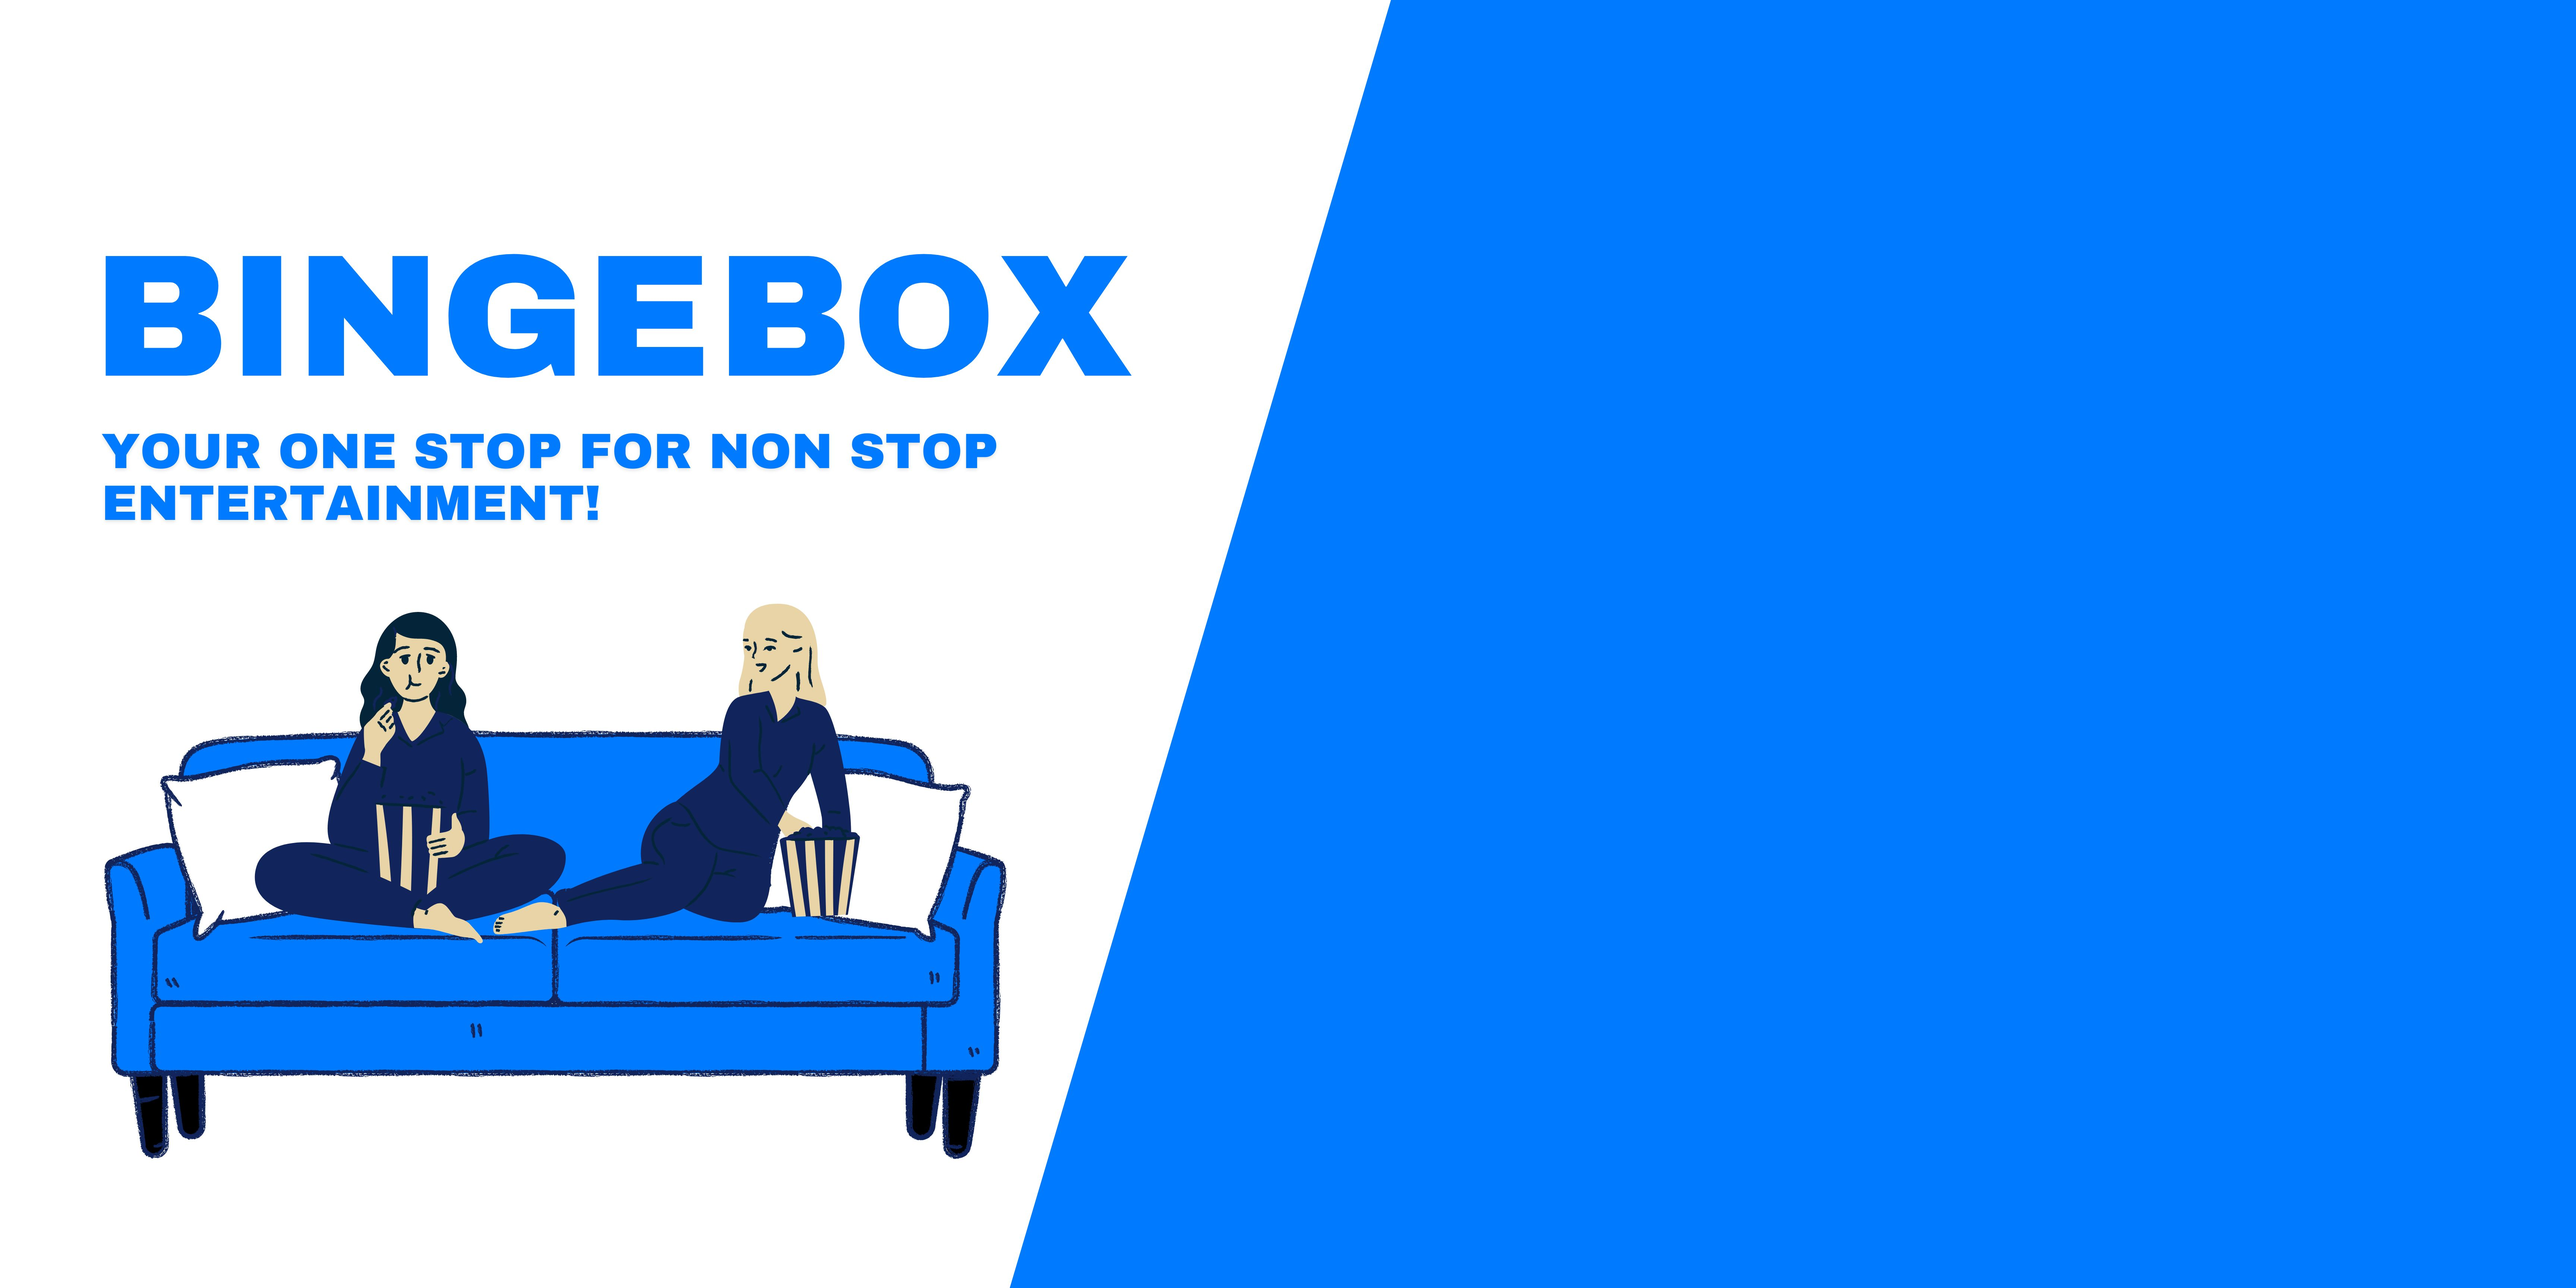
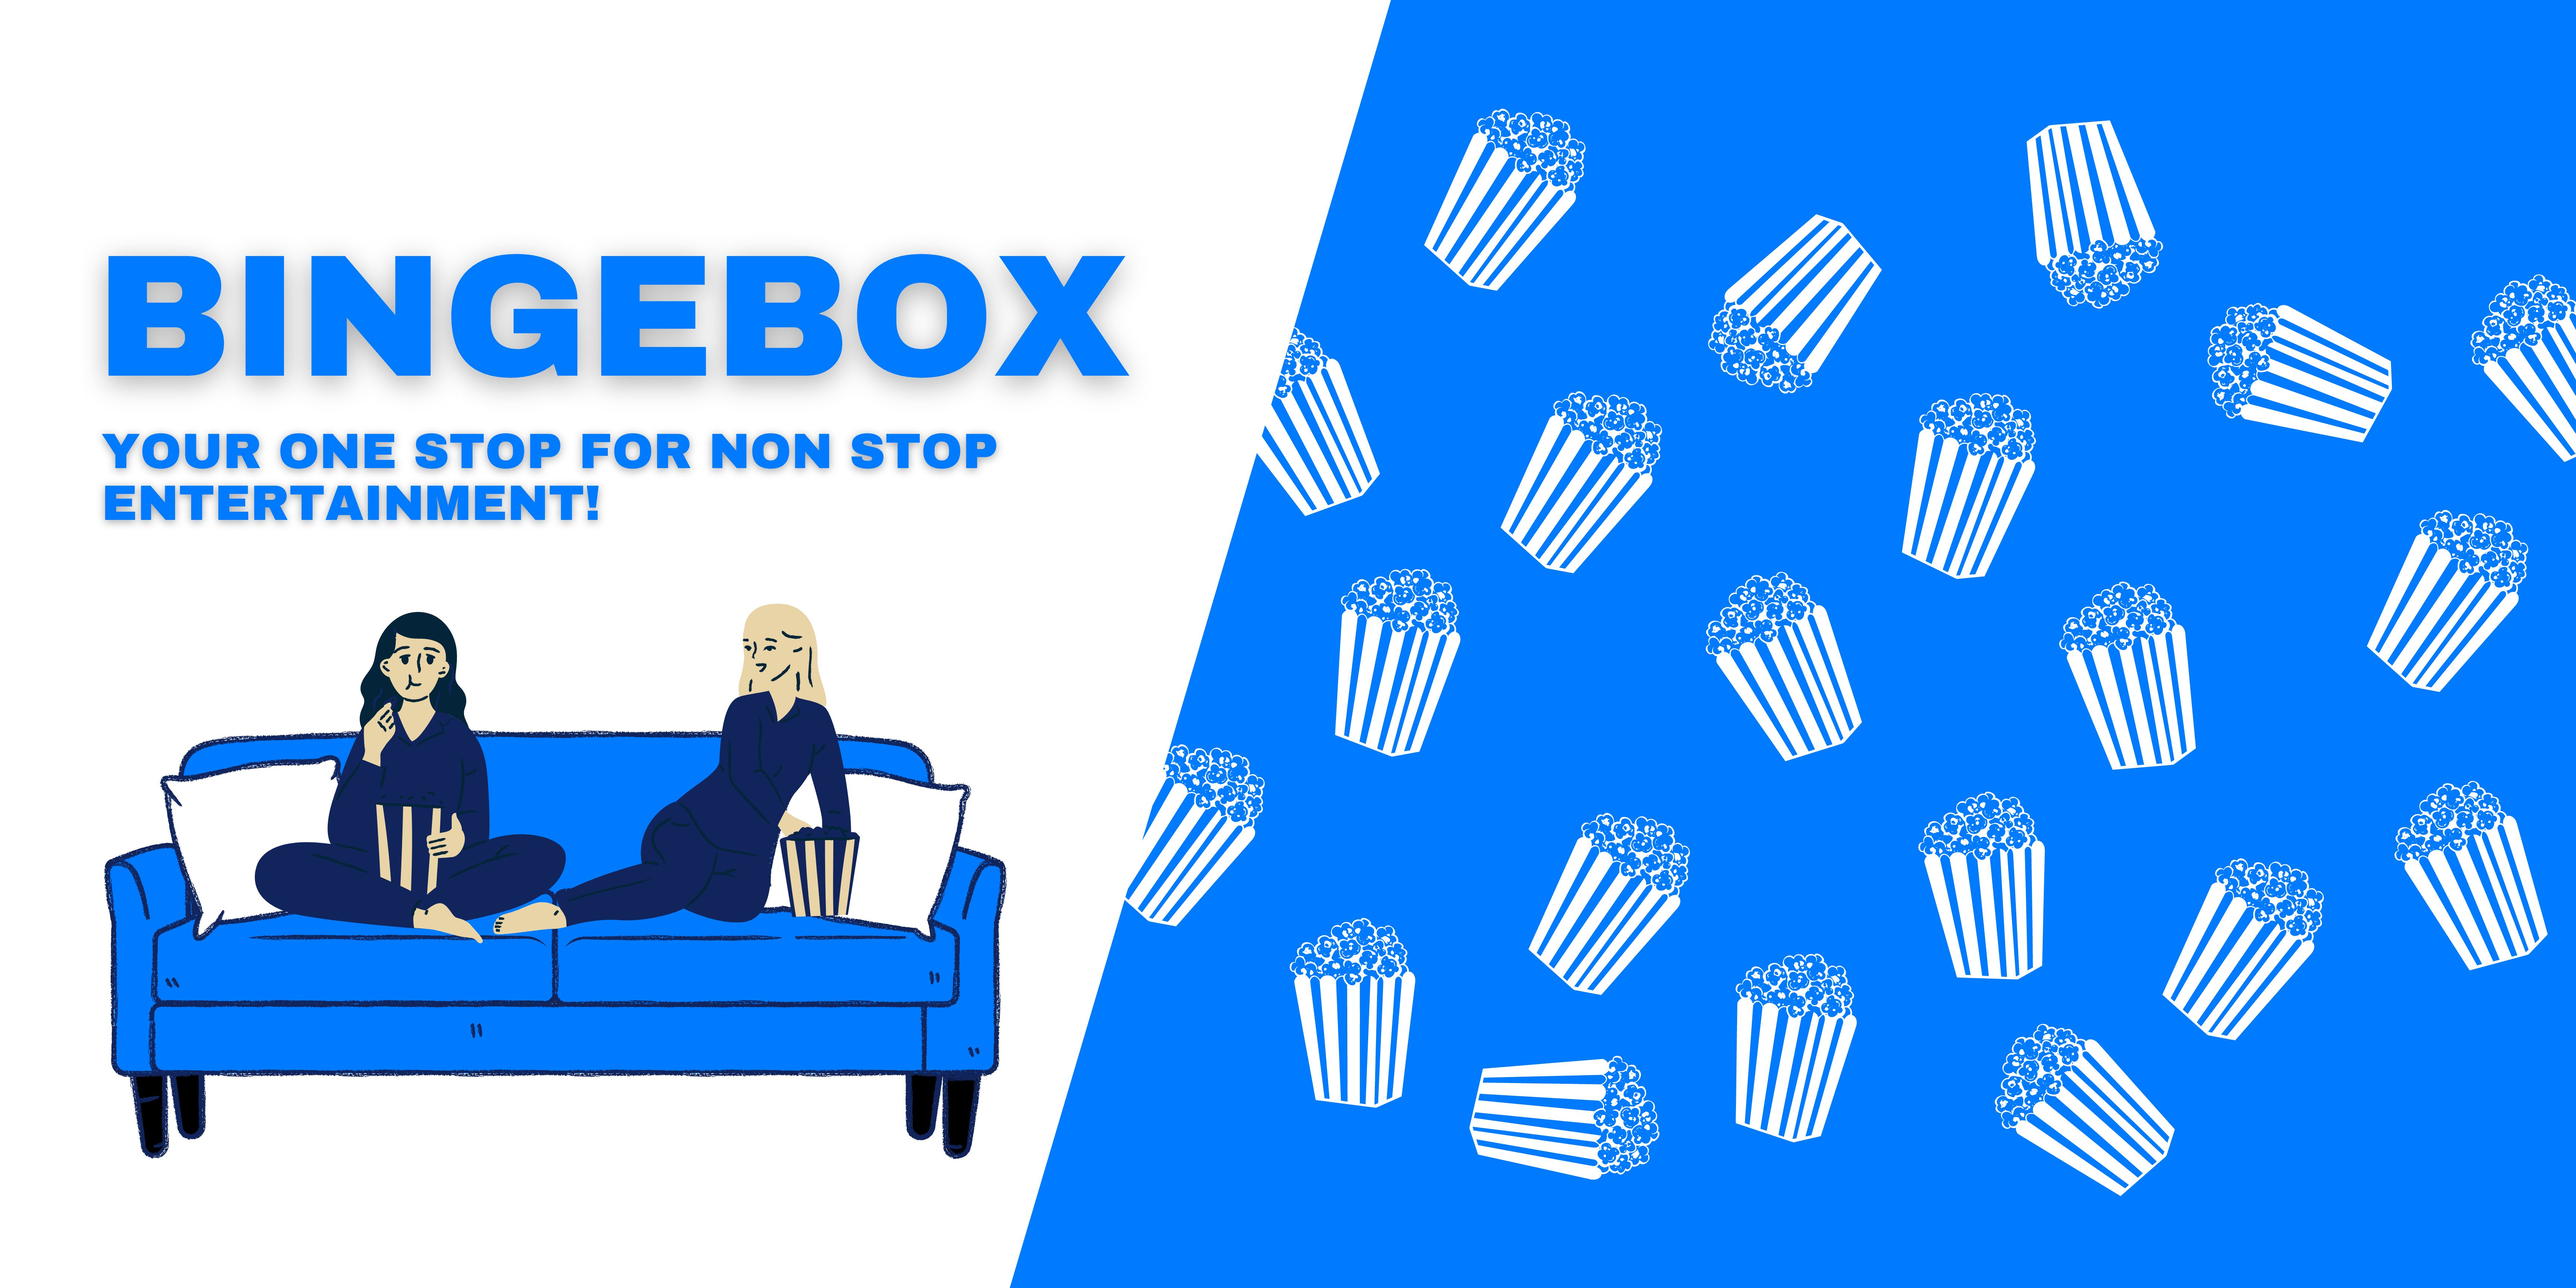
ui changes

diff --git a/src/App.js b/src/App.js
@@ -7,17 +7,17 @@ import Hpage from './Hpage';
 import AboutMe from './AboutMe';
 import ForgotPassword from './ForgotPassword'; 
 import Footer from './Footer';
-import BingeBox from './BingeBox.jpg'; 
+import BingeBox from './images/BingeBox.jpg'; 
 import FeedbackPage from './FeedbackPage';
 import PrivacyPolicy from './PrivacyPolicy';
 import TermsOfService from './TermsOfService';
-import Logout from './Logout'; // Import the Logout component
+import Logout from './Logout'; 
 
 const NavBar = () => {
     const location = useLocation();
 
-    // Conditionally hide links on LogIn and SignUp pages
-    const hideLinks = location.pathname === '/' || location.pathname === '/signup' || location.pathname === '/forgot-password';
+    
+    const hideLinks = location.pathname === '/' || location.pathname === '/signup' || location.pathname === '/forgot-password' || location.pathname === '/terms-of-service' || location.pathname === '/privacy-policy';
 
     return (
         <nav>
@@ -28,7 +28,7 @@ const NavBar = () => {
                         <li><Link to="/home">Shows</Link></li>
                         <li><Link to="/about">About Us</Link></li>
                         <li><Link to="/feedback">Feedback</Link></li>
-                        <li><Link to="/logout">Logout</Link></li> {/* Add Logout link */}
+                        <li><Link to="/logout">Logout</Link></li> 
                     </ul>
                 )}
             </div>
@@ -49,7 +49,7 @@ const AppContent = () => {
                 <Route path="/forgot-password" element={<ForgotPassword />} /> 
                 <Route path="/privacy-policy" element={<PrivacyPolicy />} />
                 <Route path="/terms-of-service" element={<TermsOfService />} />
-                <Route path="/logout" element={<Logout />} /> {/* Add Logout route */}
+                <Route path="/logout" element={<Logout />} /> 
             </Routes>
             <Footer />
         </div>

diff --git a/backend/routes/auth.js b/backend/routes/auth.js
@@ -2,18 +2,17 @@ const express = require('express');
 const router = express.Router();
 const User = require('../models/User');
 
-// Register route
+
 router.post('/register', async (req, res) => {
     try {
         const { username, email, password, ContactNumber } = req.body;
 
-        // Check if the user already exists
         const existingUser = await User.findOne({ email });
         if (existingUser) {
             return res.status(400).json({ message: 'User already exists' });
         }
 
-        // Create a new user
+        
         const newUser = new User({
             username,
             email,
@@ -21,7 +20,7 @@ router.post('/register', async (req, res) => {
             ContactNumber,
         });
 
-        // Save the user to the database
+
         await newUser.save();
 
         res.status(201).json({ message: 'User registered successfully' });
@@ -39,12 +38,12 @@ router.post('/login', async (req, res) => {
             return res.status(400).json({ message: 'User not found' });
         }
 
-        // Check if the password matches (direct comparison since no hashing is done)
+
         if (user.password !== password) {
             return res.status(400).json({ message: 'Invalid credentials' });
         }
 
-        // Successful login
+
         res.status(200).json({ message: 'Login successful', user });
     } catch (error) {
         res.status(500).json({ message: 'Server error' });

diff --git a/src/LogIn.js b/src/LogIn.js
@@ -5,20 +5,20 @@ import { useNavigate } from 'react-router-dom';
 function LogIn() {
     const [username, setUsername] = useState('');
     const [password, setPassword] = useState('');
-    const navigate = useNavigate(); // Initialize useNavigate for navigation
+    const navigate = useNavigate(); 
 
     const handleSubmit = async (e) => {
-        e.preventDefault(); // Prevent default form submission
+        e.preventDefault(); 
         try {
             const response = await axios.post('http://localhost:5000/api/auth/login', {
                 username,
                 password,
             });
             
-            alert(response.data.message); // Alert the user with a success message
+            alert(response.data.message); 
             
-            // Redirect to the home page (e.g., '/')
-            navigate('/home'); // Change this if your home route is different
+            
+            navigate('/home'); 
         } catch (error) {
             alert(error.response?.data.message || 'Login failed');
         }

diff --git a/src/App.css b/src/App.css
@@ -261,7 +261,6 @@ h2 {
   border-radius: 10px;
   width: 200px;
   margin: 20px;
-  padding: 10px;
   text-align: center;
   box-shadow: 0 4px 8px rgba(0, 0, 0, 0.2);
 }
@@ -414,13 +413,16 @@ p {
   border-radius: 8px;
   overflow: hidden;
   text-align: center;
+  padding: 10px;
+  margin: 10px;
   background-color: #f9f9f9;
+  transition: transform 0.3s ease, box-shadow 0.3s ease, background-color 0.3s ease;
 }
 
 .event-card:hover {
-  box-shadow: 0 12px 24px rgba(0, 0, 0, 0.3); 
-  transform: translateY(-8px) scale(1.03); 
-  background-color: #f7f7f7; 
+  box-shadow: 0 16px 32px rgba(0, 0, 0, 0.35);
+  transform: translateY(-10px) scale(1.05);
+  background-color: #eaeaea;
 }
 
 
@@ -662,3 +664,4 @@ p {
   box-shadow: 0px 4px 10px rgba(0, 0, 0, 0.5); 
   border-radius: 10px; 
 }
+

diff --git a/backend/app.js b/backend/app.js
@@ -6,19 +6,19 @@ require('dotenv').config();
 
 const app = express();
 
-// Middleware
+
 app.use(cors());
 app.use(express.json());
 
-// Connect to MongoDB
+
 mongoose.connect(process.env.MONGO_URL)
 .then(() => console.log('Connected to MongoDB'))
 .catch((err) => console.error('MongoDB connection error:', err));
 
-// Routes
+
 app.use('/api/auth', authRoutes);
 
-// Start server
+
 const PORT = process.env.PORT || 5000;
 app.listen(PORT, () => {
     console.log(`Server running on port ${PORT}`);

diff --git a/src/Logout.js b/src/Logout.js
@@ -5,10 +5,8 @@ const Logout = () => {
     const navigate = useNavigate();
 
     useEffect(() => {
-        // Perform logout logic here (e.g., clear user data, tokens, etc.)
-        localStorage.removeItem('user'); // Example: removing user data from local storage
+        localStorage.removeItem('user'); 
 
-        // Redirect to login page after logout
         navigate('/');
     }, [navigate]);
 

diff --git a/src/Hpage.js b/src/Hpage.js
@@ -40,7 +40,8 @@ import neighbor from './images/neighbor.jpg';
 import thirteenth from './images/thirteenth.jpg';
 import freesolo from './images/freesolo.jpg';
 import marvel from './videos/marvel.mp4';
-
+import mainpage2 from './images/mainpage2.jpg';
+import mainpage1 from './images/mainpage1.jpg';
 
 const eventsData = {
   action: [
